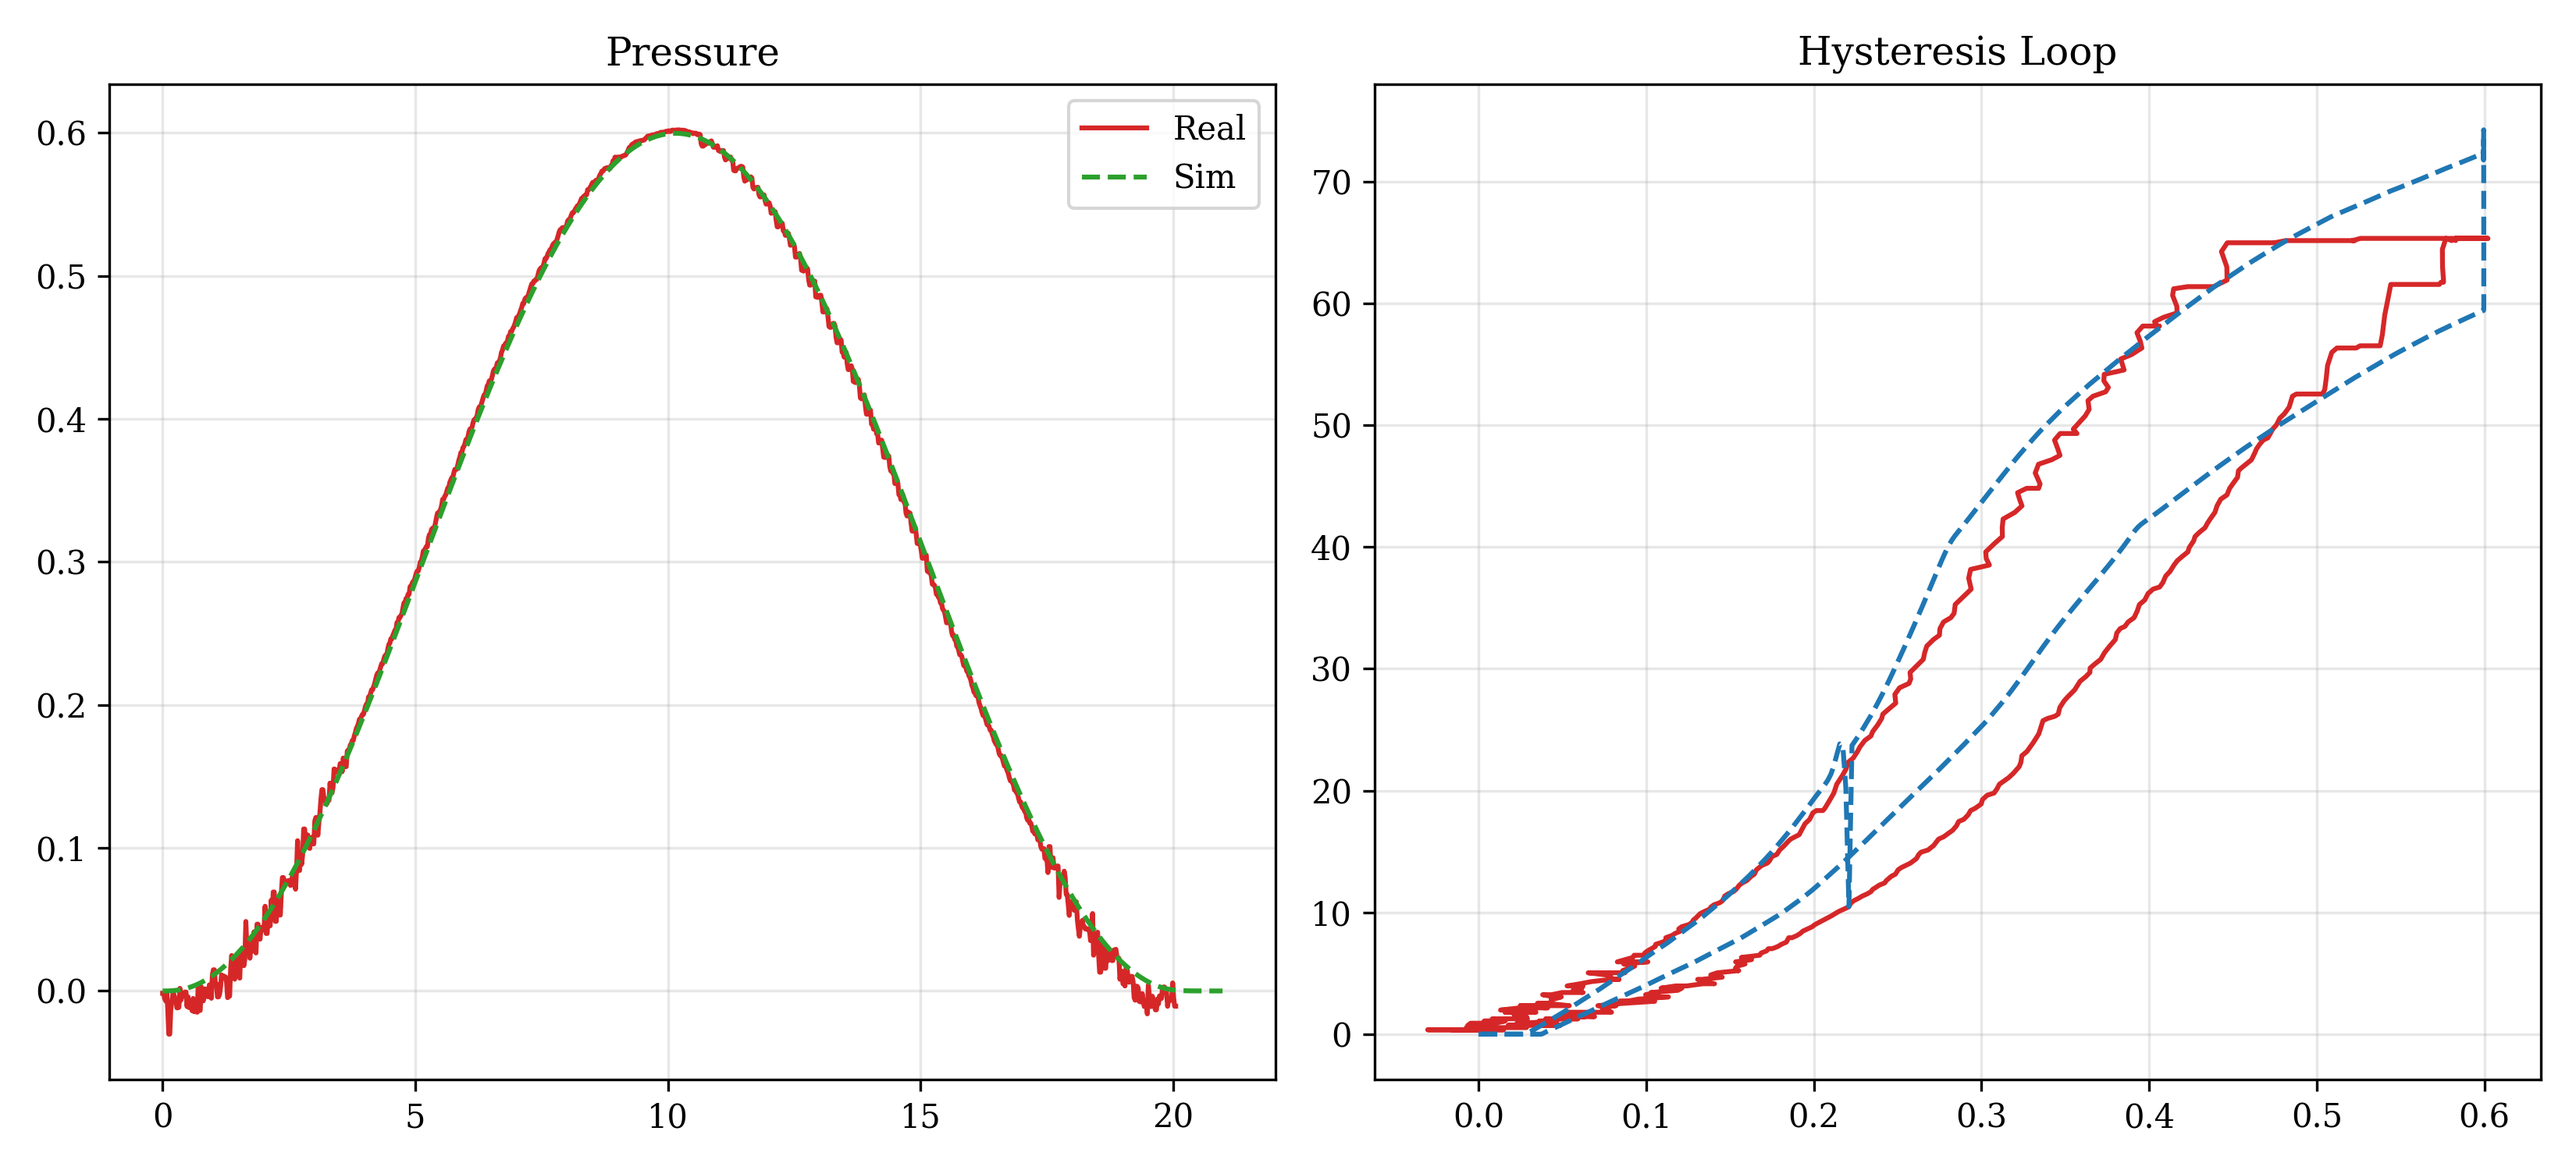
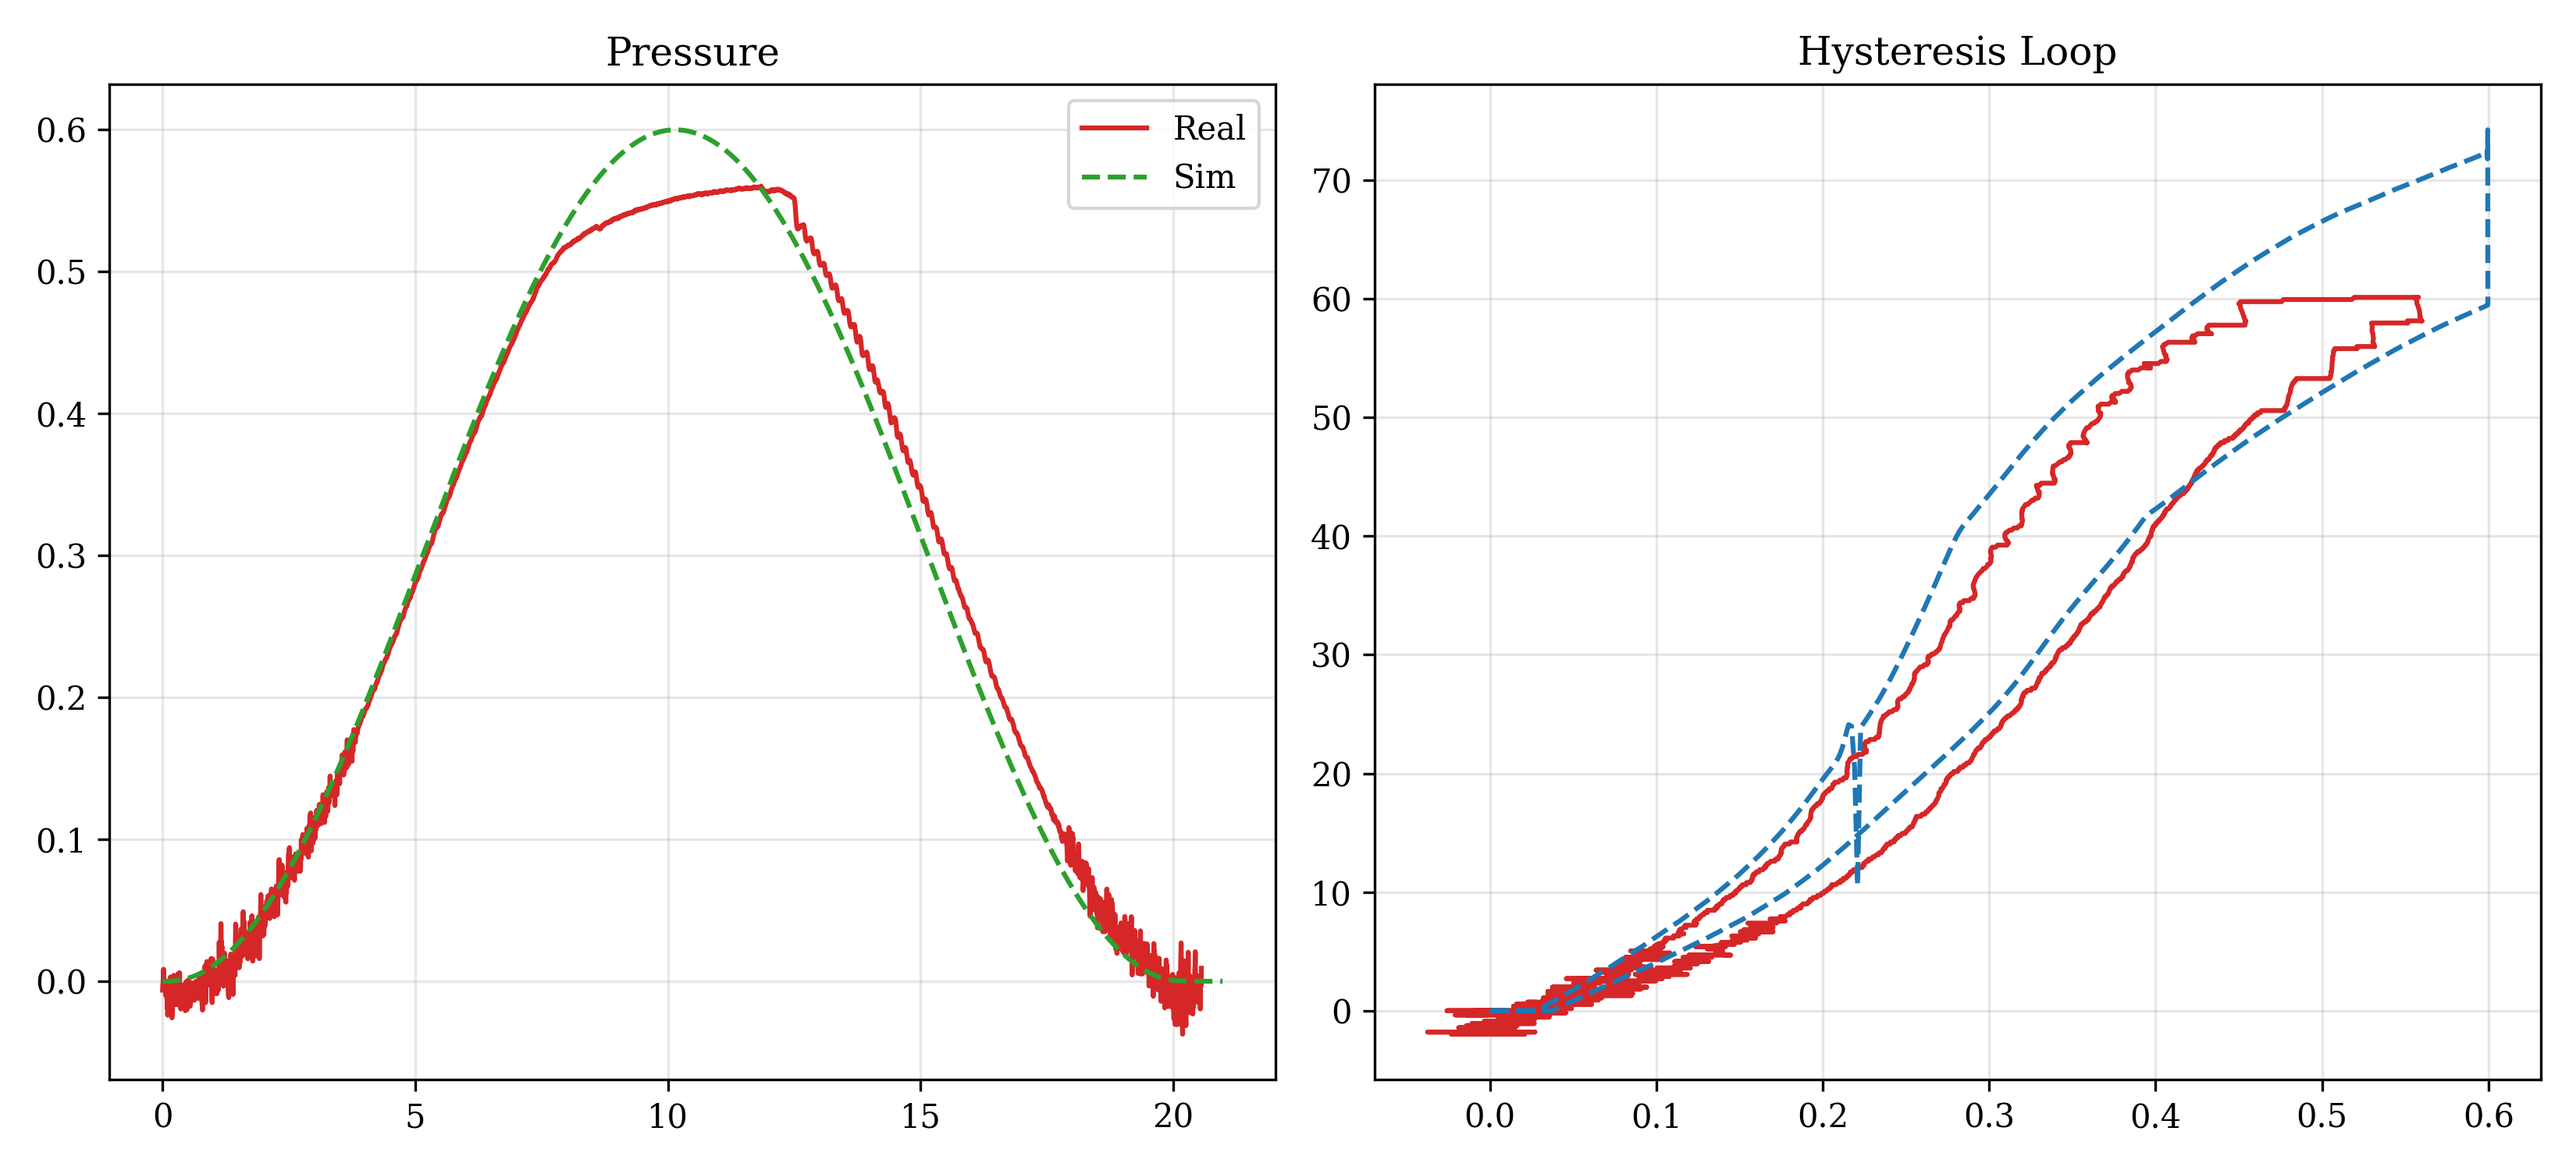
RLv3

diff --git a/source/porcaro_rl/porcaro_rl/tasks/direct/porcaro_rlv1/actions/pneumatic.py b/source/porcaro_rl/porcaro_rl/tasks/direct/porcaro_rlv1/actions/pneumatic.py
@@ -17,23 +17,23 @@ L_TAB   = torch.tensor([0.038, 0.035, 0.032, 0.030, 0.023, 0.023], dtype=torch.f
 
 # High-Fidelity 2D Tables
 TAU_TABLE_2D_DATA = [
-    [0.0010, 0.0200, 0.0404, 0.0404, 0.0808, 0.0909, 0.1313], # Start=0.0
-    [0.0908, 0.0010, 0.0404, 0.0405, 0.0505, 0.0908, 0.0808], # Start=0.1
-    [0.0404, 0.1313, 0.0010, 0.0913, 0.0404, 0.0811, 0.0808], # Start=0.2
-    [0.0404, 0.0808, 0.0910, 0.0010, 0.0809, 0.0403, 0.0808], # Start=0.3
-    [0.0909, 0.0909, 0.0404, 0.1717, 0.0010, 0.0914, 0.0808], # Start=0.4
-    [0.0404, 0.0909, 0.0406, 0.0404, 0.0404, 0.0010, 0.0404], # Start=0.5
-    [0.0404, 0.0909, 0.0505, 0.0404, 0.0505, 0.0200, 0.0010], # Start=0.6
+    [0.0010, 0.0950, 0.0850, 0.0800, 0.0700, 0.0950, 0.1000],
+    [0.0850, 0.0010, 0.0750, 0.0950, 0.0900, 0.0800, 0.1050],
+    [0.0800, 0.0550, 0.0010, 0.0500, 0.1050, 0.0800, 0.1000],
+    [0.0550, 0.0950, 0.0550, 0.0010, 0.0350, 0.0750, 0.0700],
+    [0.0600, 0.0850, 0.1150, 0.0950, 0.0010, 0.1550, 0.1400],
+    [0.0600, 0.0950, 0.0550, 0.1000, 0.1150, 0.0010, 0.1750],
+    [0.0600, 0.0850, 0.0700, 0.0850, 0.0900, 0.1600, 0.0010],
 ]
 
 DEAD_TABLE_2D_DATA = [
-    [0.0010, 0.0809, 0.0908, 0.0404, 0.0404, 0.0807, 0.0404], # Start=0.0
-    [0.0010, 0.0010, 0.0505, 0.0505, 0.0808, 0.0404, 0.0908], # Start=0.1
-    [0.0809, 0.0808, 0.0010, 0.0010, 0.0911, 0.0505, 0.0505], # Start=0.2
-    [0.0404, 0.0910, 0.1313, 0.0010, 0.0010, 0.0807, 0.0404], # Start=0.3
-    [0.0404, 0.0808, 0.0808, 0.0010, 0.0010, 0.0405, 0.0909], # Start=0.4
-    [0.0808, 0.0808, 0.0913, 0.0808, 0.0909, 0.0010, 0.0810], # Start=0.5
-    [0.0809, 0.0808, 0.0813, 0.0908, 0.0807, 0.1313, 0.0010], # Start=0.6
+    [0.0010, 0.0050, 0.0100, 0.0150, 0.0600, 0.0550, 0.0550],
+    [0.0100, 0.0010, 0.0450, 0.0100, 0.0300, 0.0650, 0.0500],
+    [0.0150, 0.0450, 0.0010, 0.0750, 0.0100, 0.0750, 0.0600],
+    [0.0550, 0.0800, 0.0850, 0.0010, 0.1050, 0.0850, 0.0650],
+    [0.0500, 0.0650, 0.0200, 0.0400, 0.0010, 0.0050, 0.0250],
+    [0.0450, 0.0700, 0.0700, 0.0300, 0.0300, 0.0010, 0.0350],
+    [0.0700, 0.0750, 0.0750, 0.0350, 0.0300, 0.0050, 0.0010],
 ]
 
 def get_2d_tables(device: torch.device | str):

diff --git a/scripts/verification/run_manual_verification_iros.py b/scripts/verification/run_manual_verification_iros.py
@@ -12,7 +12,7 @@ porcaro/ (Project Root)
   python scripts/verification/run_manual_verification_iros.py exp1_static_hysteresis
   python scripts/verification/run_manual_verification_iros.py exp1_static_hysteresis --model_type B
   python scripts/verification/run_manual_verification_iros.py exp2_step_response --model_type B
-  python scripts/verification/run_manual_verification_iros.py exp3_frequency_sweep --model_type B
+  python scripts/verification/run_manual_verification_iros.py exp3_frequency_sweep --no_drum --model_type B
   python scripts/verification/run_manual_verification_iros.py data_exp1_static_hysteresis_TIMESTAMP
 
 """

diff --git a/source/porcaro_rl/porcaro_rl/tasks/direct/porcaro_rlv1/porcaro_rl_env.py b/source/porcaro_rl/porcaro_rl/tasks/direct/porcaro_rlv1/porcaro_rl_env.py
@@ -57,7 +57,7 @@ class PorcaroRLEnv(DirectRLEnv):
         self.curriculum_thresholds = [200_000_000, 400_000_000]
 
         # 物理パラメータを変えずに、強化学習が見る値だけを実機スケールに合わせる
-        self.force_scale_sim_to_real = 1.0
+        self.force_scale_sim_to_real = 3.0
 
         # [追加]: BPMごとの報酬ログ用バッファ (移動平均用)
         # キー: BPM(int), 値: deque(maxlen=20) ← 直近20回分のエピソード平均を保持

diff --git a/source/porcaro_rl/porcaro_rl/tasks/direct/porcaro_rlv1/cfg/assets.py b/source/porcaro_rl/porcaro_rl/tasks/direct/porcaro_rlv1/cfg/assets.py
@@ -12,7 +12,7 @@ from isaaclab.sim.schemas import MassPropertiesCfg
 
 # --- 定数 ---
 WRIST_J0       = math.radians(0.0)
-GRIP_J0        = math.radians(-8.1) # シミュレーション座標系
+GRIP_J0        = math.radians(0.0)#-8.1) # シミュレーション座標系
 
 # --- ヘルパー関数 ---
 def quat_from_euler_zyx(yaw_deg=0.0, pitch_deg=0.0, roll_deg=0.0):
